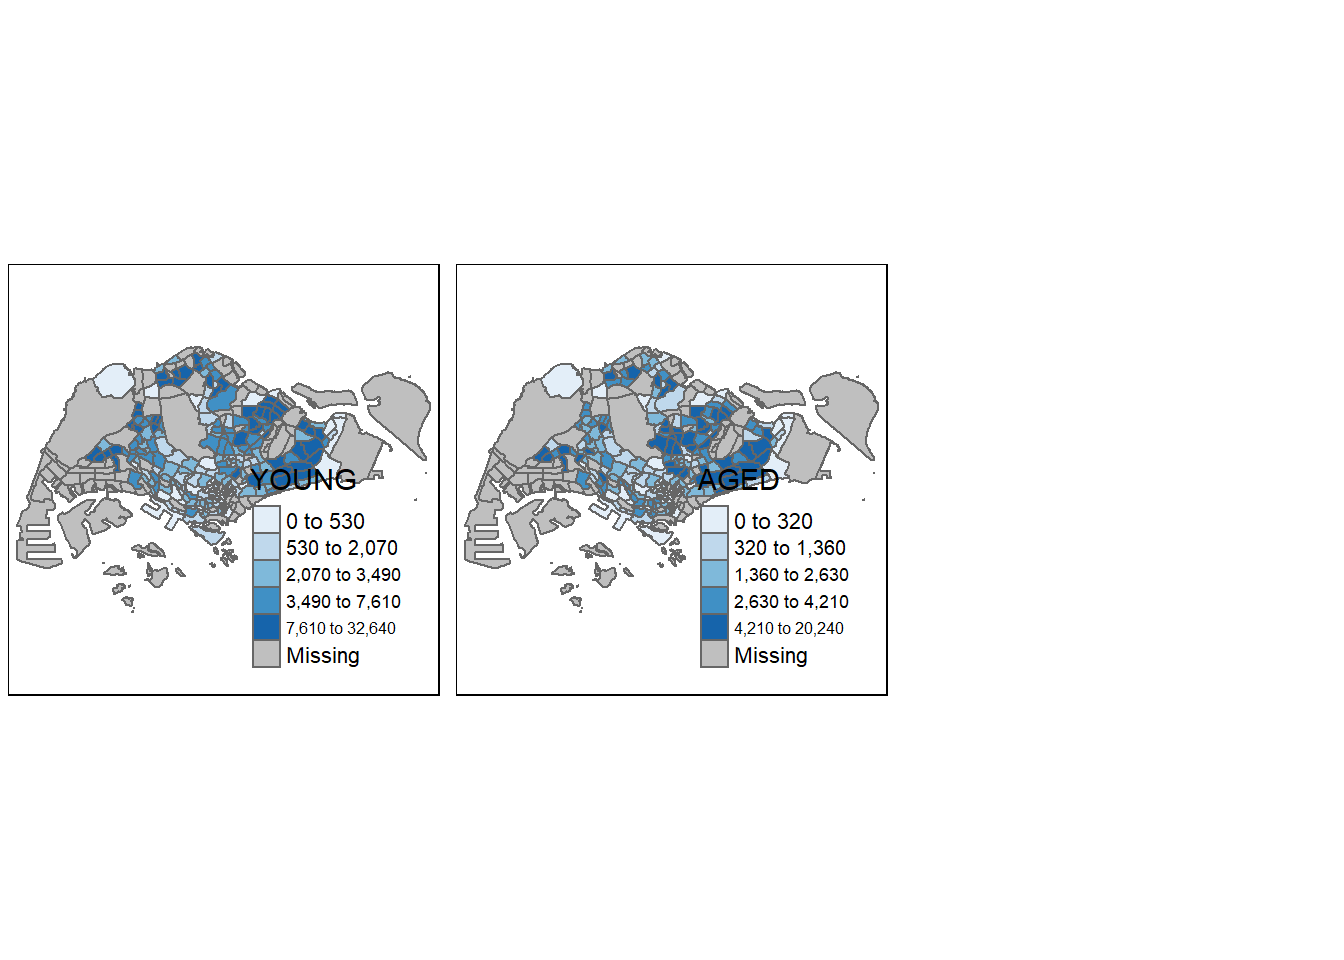
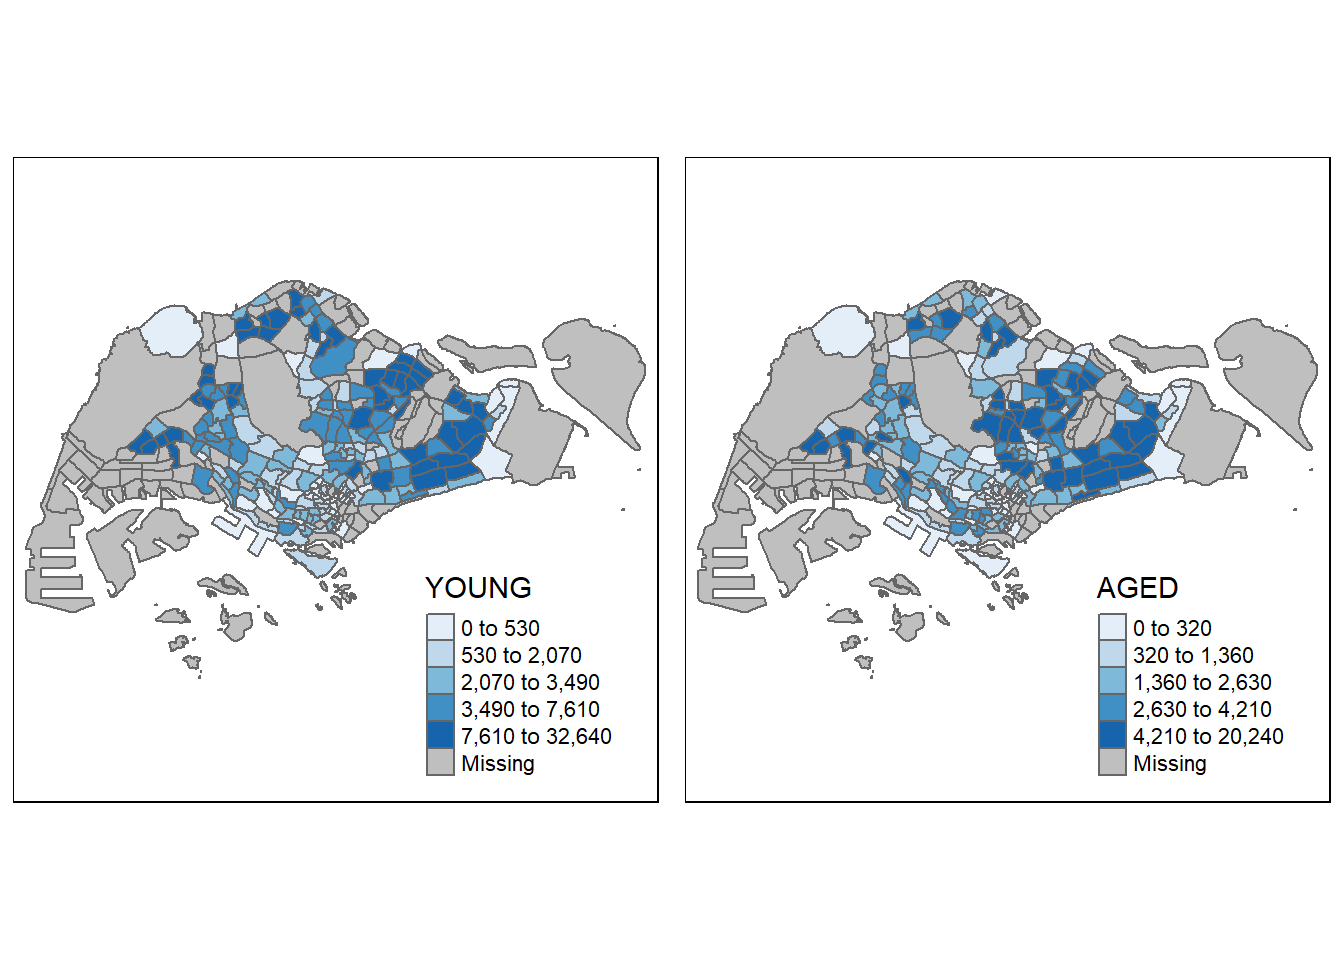
Updates to Hands-on Ex1

Changed region(s): [[0.0, 0.2812, 1.0, 0.8125], [0.8125, 0.5938, 0.9688, 0.8125]]

diff --git a/_site/Hands-on_Ex/Hands-on_Ex1/Hands-on_Ex1.html b/_site/Hands-on_Ex/Hands-on_Ex1/Hands-on_Ex1.html
@@ -222,7 +222,9 @@ code span.wa { color: #60a0b0; font-weight: bold; font-style: italic; } /* Warni
   <li><a href="#data-classification-methods-of-tmap" id="toc-data-classification-methods-of-tmap" class="nav-link" data-scroll-target="#data-classification-methods-of-tmap">2.4.3 Data classification methods of <strong>tmap</strong></a></li>
   <li><a href="#map-layouts" id="toc-map-layouts" class="nav-link" data-scroll-target="#map-layouts">2.4.5 Map Layouts</a></li>
   <li><a href="#drawing-small-multiple-choropleth-maps-of-facet-maps" id="toc-drawing-small-multiple-choropleth-maps-of-facet-maps" class="nav-link" data-scroll-target="#drawing-small-multiple-choropleth-maps-of-facet-maps">2.4.6 Drawing Small Multiple Choropleth Maps of Facet Maps</a></li>
+  <li><a href="#mappping-spatial-object-meeting-a-selection-criterion" id="toc-mappping-spatial-object-meeting-a-selection-criterion" class="nav-link" data-scroll-target="#mappping-spatial-object-meeting-a-selection-criterion">2.4.7 Mappping Spatial Object Meeting a Selection Criterion</a></li>
   </ul></li>
+  <li><a href="#references" id="toc-references" class="nav-link" data-scroll-target="#references">3 References</a></li>
   </ul>
 </nav>
     </div>
@@ -1509,19 +1511,56 @@ dbl (2): Pop, Time
 <span id="cb116-10"><a href="#cb116-10" aria-hidden="true" tabindex="-1"></a>              <span class="at">palette =</span> <span class="st">"Blues"</span>)</span>
 <span id="cb116-11"><a href="#cb116-11" aria-hidden="true" tabindex="-1"></a></span>
 <span id="cb116-12"><a href="#cb116-12" aria-hidden="true" tabindex="-1"></a><span class="co">#Arrange Maps</span></span>
-<span id="cb116-13"><a href="#cb116-13" aria-hidden="true" tabindex="-1"></a><span class="fu">tmap_arrange</span>(youngmap, agedmap, <span class="at">asp=</span><span class="dv">1</span>, <span class="at">ncol=</span><span class="dv">3</span>) <span class="co">#ncol = no. of cols #asp =  aspect ratio of each map.</span></span></code><button title="Copy to Clipboard" class="code-copy-button"><i class="bi"></i></button></pre></div>
-<div class="cell-output cell-output-stderr">
-<pre><code>Some legend labels were too wide. These labels have been resized to 0.62, 0.55, 0.55, 0.50. Increase legend.width (argument of tm_layout) to make the legend wider and therefore the labels larger.
-Some legend labels were too wide. These labels have been resized to 0.62, 0.55, 0.55, 0.50. Increase legend.width (argument of tm_layout) to make the legend wider and therefore the labels larger.</code></pre>
-</div>
+<span id="cb116-13"><a href="#cb116-13" aria-hidden="true" tabindex="-1"></a><span class="fu">tmap_arrange</span>(youngmap, agedmap, <span class="at">asp=</span><span class="dv">1</span>, <span class="at">ncol=</span><span class="dv">2</span>) </span></code><button title="Copy to Clipboard" class="code-copy-button"><i class="bi"></i></button></pre></div>
 <div class="cell-output-display">
 <p><img src="Hands-on_Ex1_files/figure-html/unnamed-chunk-64-1.png" class="img-fluid" width="672"></p>
 </div>
 </div>
-
-
+<p>If there are more than 2 maps, I can just add on for instance:</p>
+<div class="cell">
+<div class="sourceCode cell-code" id="cb117"><pre class="sourceCode r code-with-copy"><code class="sourceCode r"><span id="cb117-1"><a href="#cb117-1" aria-hidden="true" tabindex="-1"></a><span class="fu">tmap_arrange</span>(youngmap, agedmap, youngmap, agedmap, <span class="at">asp=</span><span class="fl">1.7</span>, <span class="at">ncol=</span><span class="dv">2</span>)</span></code><button title="Copy to Clipboard" class="code-copy-button"><i class="bi"></i></button></pre></div>
+<div class="cell-output-display">
+<p><img src="Hands-on_Ex1_files/figure-html/unnamed-chunk-65-1.png" class="img-fluid" width="672"></p>
+</div>
+</div>
 </section>
 </section>
+<section id="mappping-spatial-object-meeting-a-selection-criterion" class="level3">
+<h3 class="anchored" data-anchor-id="mappping-spatial-object-meeting-a-selection-criterion">2.4.7 Mappping Spatial Object Meeting a Selection Criterion</h3>
+<p>Instead of creating small multiple choropleth map, you can also use selection funtion to map spatial objects meeting the selection criterion.</p>
+<div class="cell">
+<div class="sourceCode cell-code" id="cb118"><pre class="sourceCode r code-with-copy"><code class="sourceCode r"><span id="cb118-1"><a href="#cb118-1" aria-hidden="true" tabindex="-1"></a><span class="fu">tm_shape</span>(mpsz_pop2020[mpsz_pop2020<span class="sc">$</span>REGION_N<span class="sc">==</span><span class="st">"CENTRAL REGION"</span>, ])<span class="sc">+</span></span>
+<span id="cb118-2"><a href="#cb118-2" aria-hidden="true" tabindex="-1"></a>  <span class="fu">tm_fill</span>(<span class="st">"DEPENDENCY"</span>, </span>
+<span id="cb118-3"><a href="#cb118-3" aria-hidden="true" tabindex="-1"></a>          <span class="at">style =</span> <span class="st">"quantile"</span>, </span>
+<span id="cb118-4"><a href="#cb118-4" aria-hidden="true" tabindex="-1"></a>          <span class="at">palette =</span> <span class="st">"Blues"</span>, </span>
+<span id="cb118-5"><a href="#cb118-5" aria-hidden="true" tabindex="-1"></a>          <span class="at">legend.hist =</span> <span class="cn">TRUE</span>, </span>
+<span id="cb118-6"><a href="#cb118-6" aria-hidden="true" tabindex="-1"></a>          <span class="at">legend.is.portrait =</span> <span class="cn">TRUE</span>,</span>
+<span id="cb118-7"><a href="#cb118-7" aria-hidden="true" tabindex="-1"></a>          <span class="at">legend.hist.z =</span> <span class="fl">0.1</span>) <span class="sc">+</span></span>
+<span id="cb118-8"><a href="#cb118-8" aria-hidden="true" tabindex="-1"></a>  <span class="fu">tm_layout</span>(<span class="at">legend.outside =</span> <span class="cn">TRUE</span>,</span>
+<span id="cb118-9"><a href="#cb118-9" aria-hidden="true" tabindex="-1"></a>            <span class="at">legend.height =</span> <span class="fl">0.45</span>, </span>
+<span id="cb118-10"><a href="#cb118-10" aria-hidden="true" tabindex="-1"></a>            <span class="at">legend.width =</span> <span class="fl">5.0</span>,</span>
+<span id="cb118-11"><a href="#cb118-11" aria-hidden="true" tabindex="-1"></a>            <span class="at">legend.position =</span> <span class="fu">c</span>(<span class="st">"right"</span>, <span class="st">"bottom"</span>),</span>
+<span id="cb118-12"><a href="#cb118-12" aria-hidden="true" tabindex="-1"></a>            <span class="at">frame =</span> <span class="cn">FALSE</span>) <span class="sc">+</span></span>
+<span id="cb118-13"><a href="#cb118-13" aria-hidden="true" tabindex="-1"></a>  <span class="fu">tm_borders</span>(<span class="at">alpha =</span> <span class="fl">0.5</span>)</span></code><button title="Copy to Clipboard" class="code-copy-button"><i class="bi"></i></button></pre></div>
+<div class="cell-output cell-output-stderr">
+<pre><code>Warning in pre_process_gt(x, interactive = interactive, orig_crs =
+gm$shape.orig_crs): legend.width controls the width of the legend within a map.
+Please use legend.outside.size to control the width of the outside legend</code></pre>
+</div>
+<div class="cell-output-display">
+<p><img src="Hands-on_Ex1_files/figure-html/unnamed-chunk-66-1.png" class="img-fluid" width="672"></p>
+</div>
+</div>
+</section>
+</section>
+<section id="references" class="level2">
+<h2 class="anchored" data-anchor-id="references">3 References</h2>
+<ul>
+<li><p>R for Geospatial Data Science and Analytics - <a href="https://r4gdsa.netlify.app/chap01.html">Chapter 1: Geospatial Data Wrangling with R</a></p></li>
+<li><p>R for Geospatial Data Science and Analytics - <a href="https://r4gdsa.netlify.app/chap02.html">Chapter 2: Choropleth Mapping with R</a></p></li>
+</ul>
+
+
 </section>
 
 </main> <!-- /main -->
